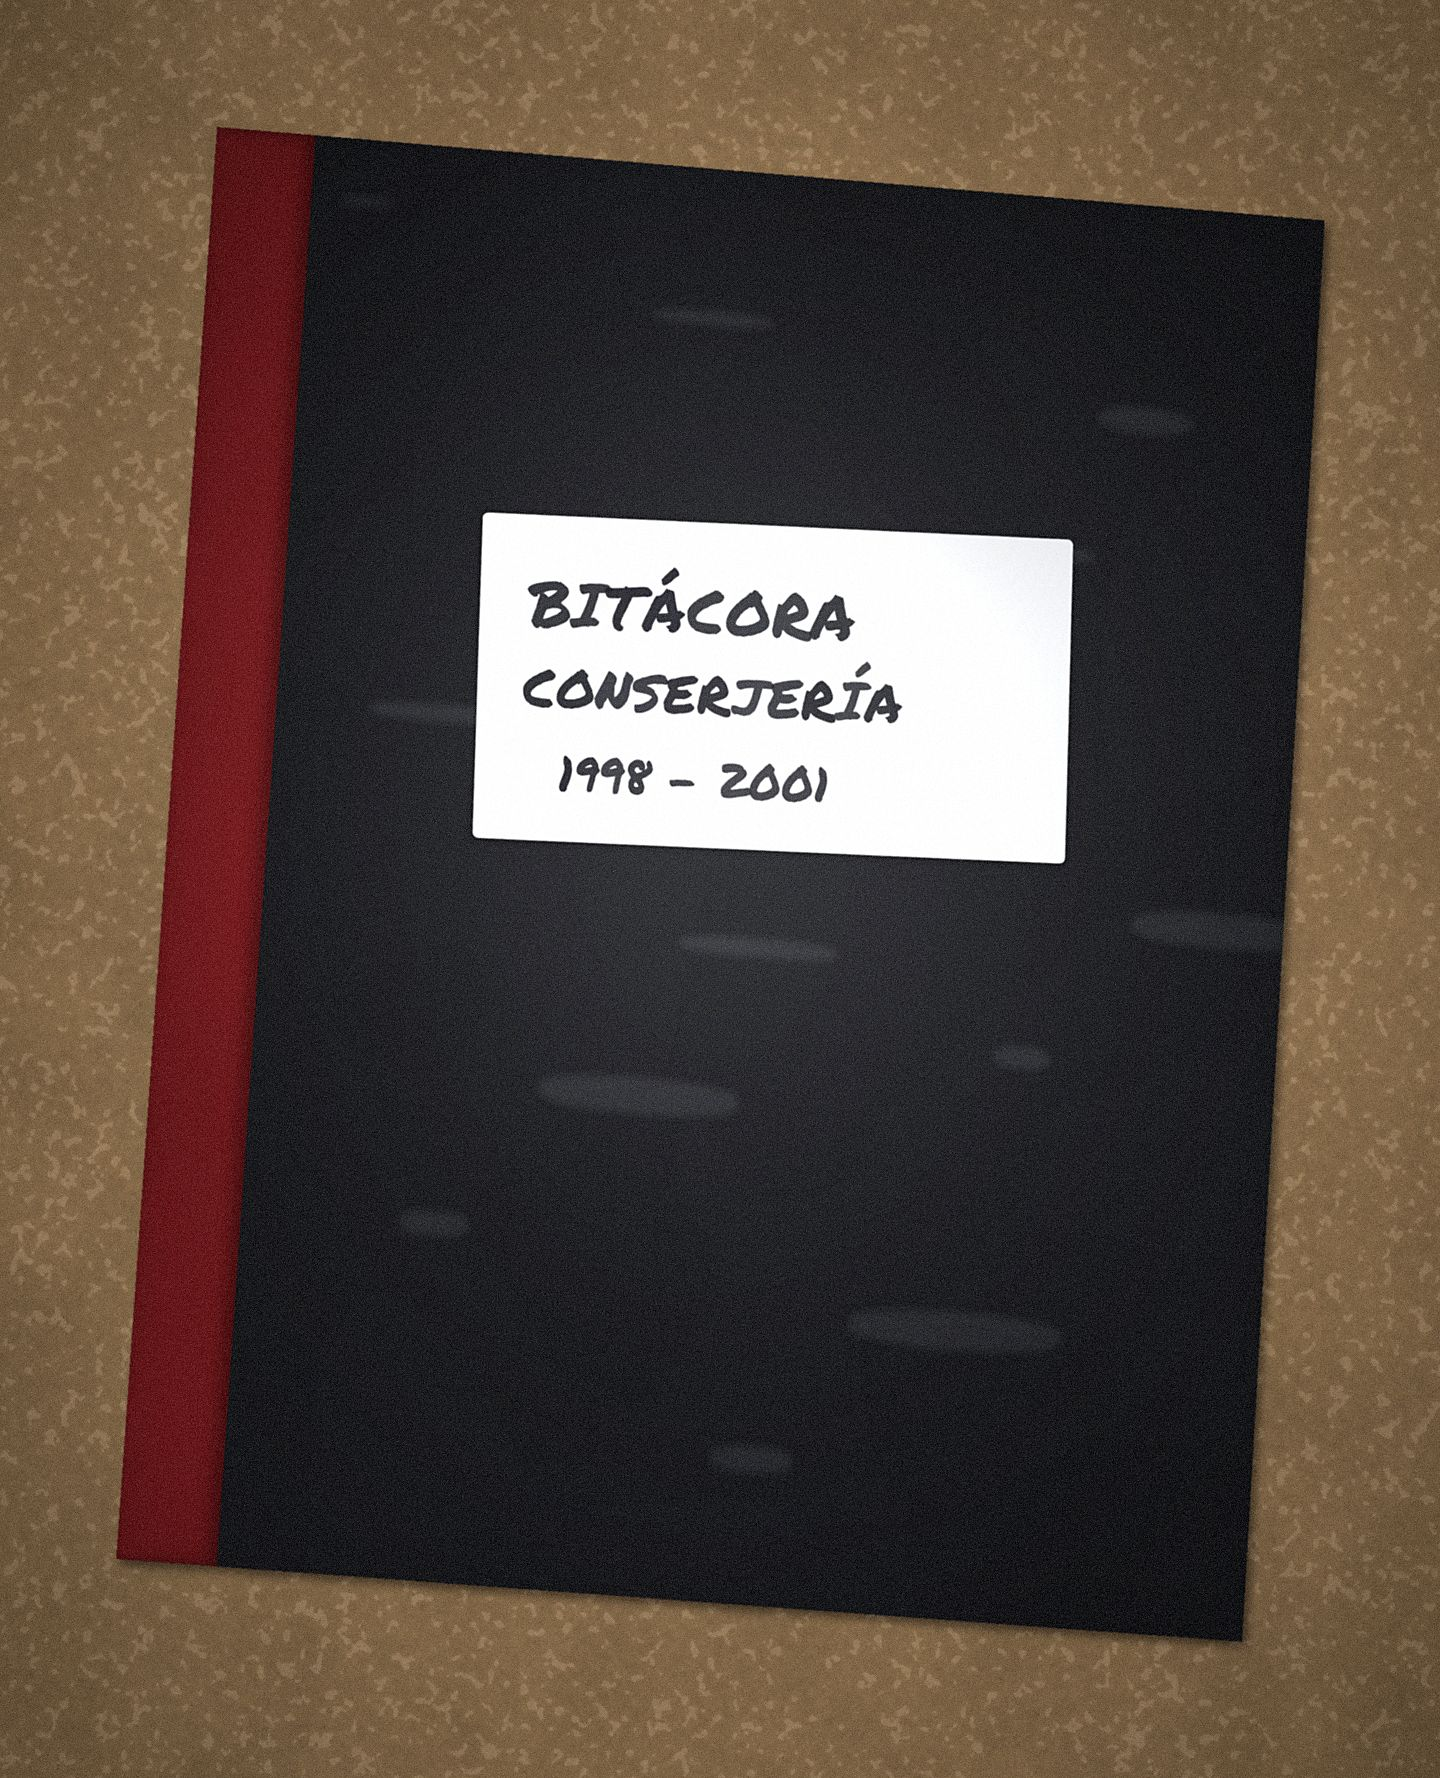
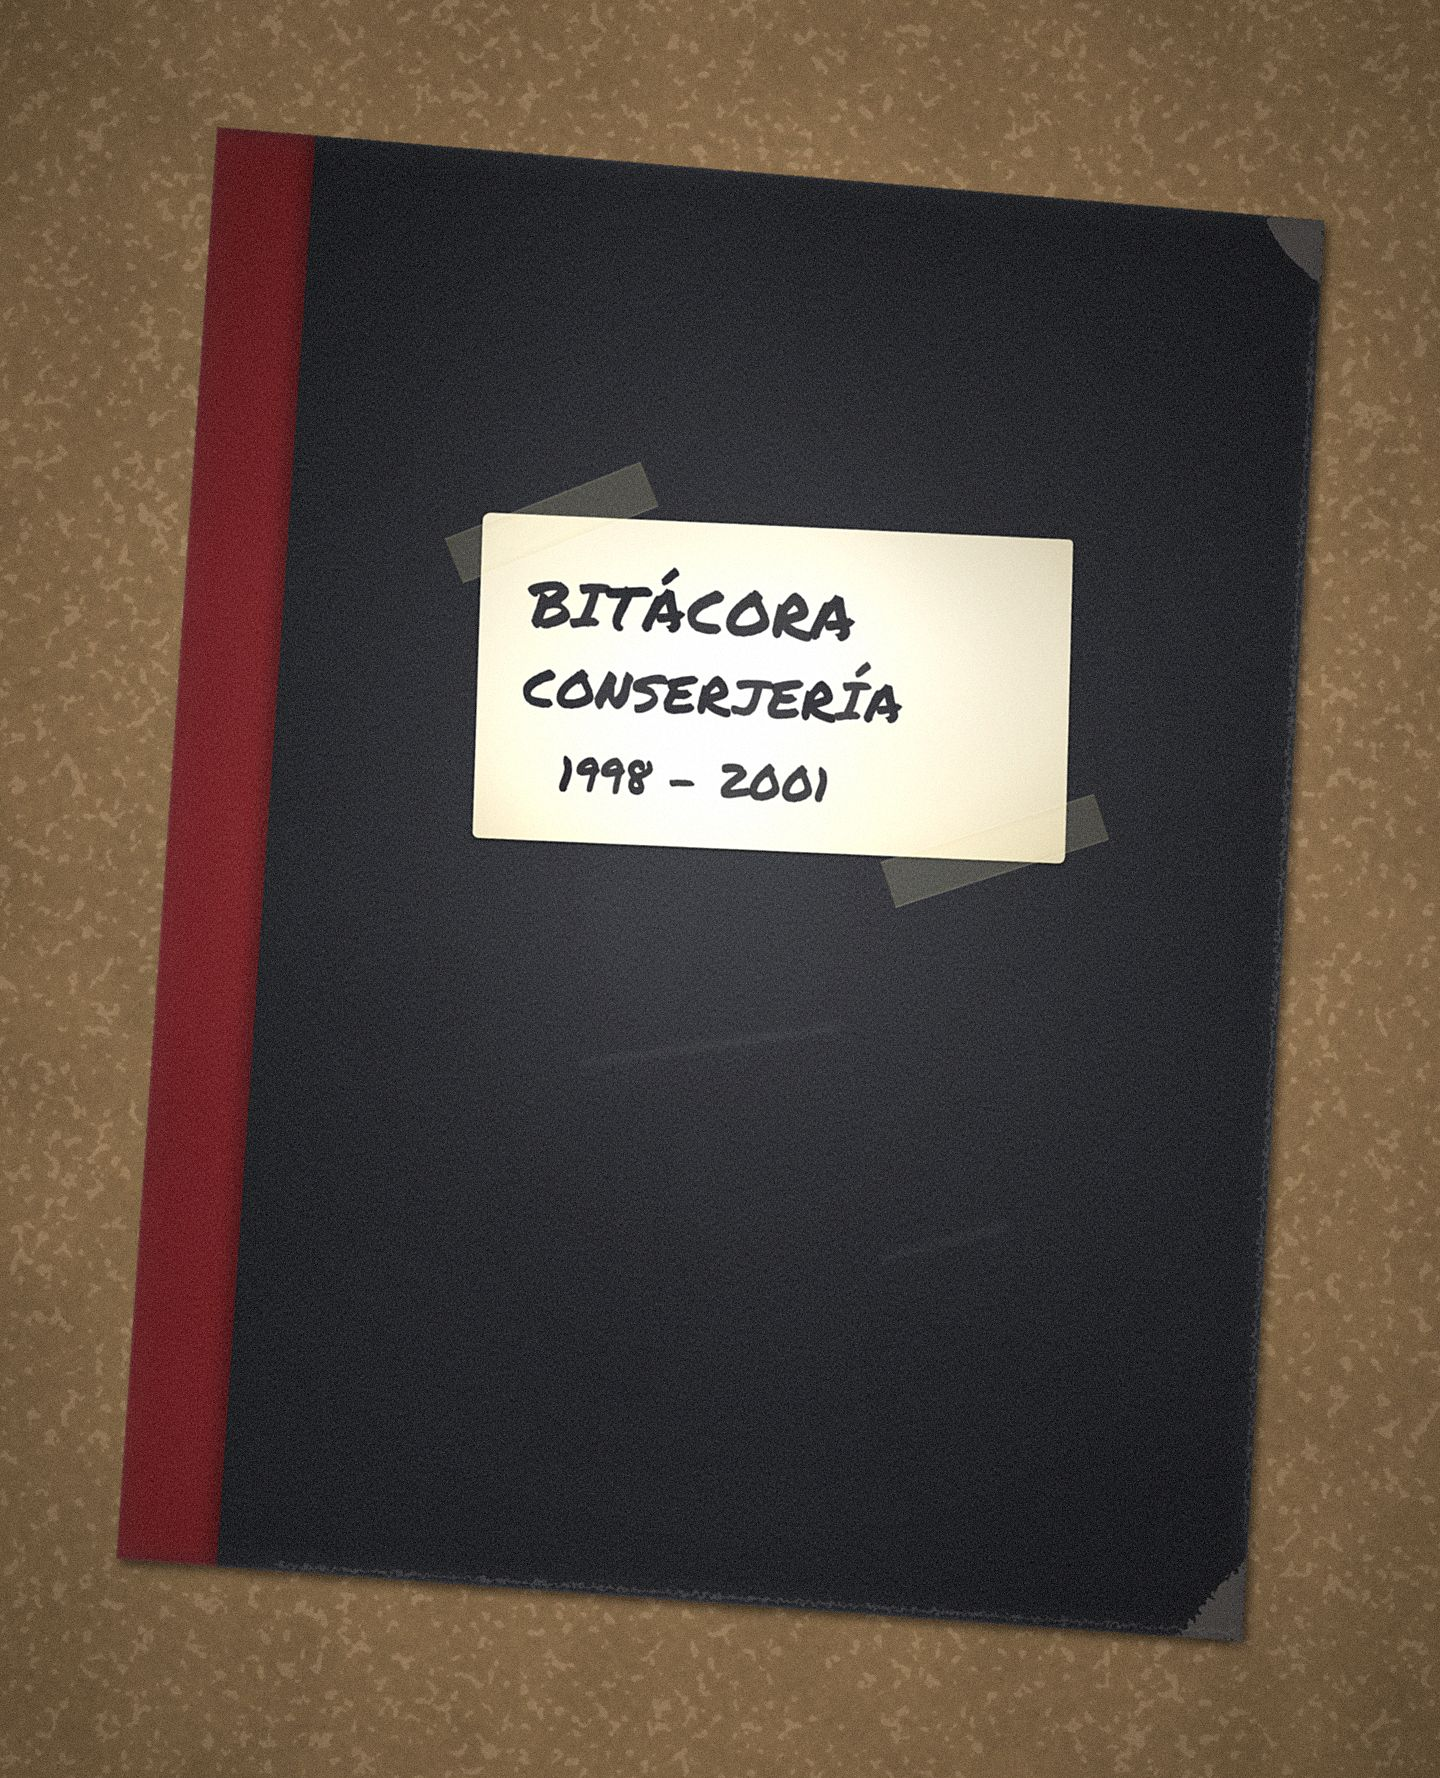
Retoques visuales: muro del pintarrón y portada de la bitácora; incidencias y notas de QA
Claude-Session: https://claude.ai/code/session_01J1QSbEcAcZzRcGmg1HpKCg

diff --git a/MAESTRO_PRIVADO/produccion/fuentes_html/bitacora.html b/MAESTRO_PRIVADO/produccion/fuentes_html/bitacora.html
@@ -16,7 +16,8 @@
 .firma{font-family:'give-you-glory';font-size:26px}
 #hoja.portada{background:#1d1d1f}
 .lomo{position:absolute;left:0;top:0;bottom:0;width:70px;background:#7b1d1f;box-shadow:inset -6px 0 10px rgba(0,0,0,.35)}
-.etq{position:absolute;left:210px;top:250px;width:420px;height:230px;background:#f2efe6;transform:rotate(-2deg);border-radius:4px;box-shadow:0 1px 3px rgba(0,0,0,.5)}
+.etq{position:absolute;left:210px;top:250px;width:420px;height:230px;background:radial-gradient(ellipse at 45% 40%,#ece3cb 0%,#e4d7b6 70%,#d6c69e 100%);transform:rotate(-2deg);border-radius:6px 3px 5px 4px;box-shadow:0 1px 2px rgba(0,0,0,.6)}
+.etq .cinta{position:absolute;height:34px;background:rgba(235,222,170,.16);border-top:1px solid rgba(255,255,255,.10);border-bottom:1px solid rgba(255,255,255,.10);box-shadow:inset 0 0 5px rgba(150,120,40,.14)}
 .etq .w{font-family:'permanent-marker';color:#1a1a1e}
 .raspa{position:absolute;border-radius:40%;background:rgba(255,255,255,.07);filter:blur(3px)}
 </style></head>
@@ -47,11 +48,20 @@ let h = '';
 if (P === 'portada') {
   H.className = 'portada';
   h += '<div class="lomo"></div>';
-  for (let i = 0; i < 14; i++) h += `<div class="raspa" style="left:${90 + (i * 137) % 640}px;top:${40 + (i * 251) % 900}px;width:${40 + (i * 37) % 120}px;height:${8 + (i * 13) % 20}px"></div>`;
+  // textura de tela y desgaste de esquinas y cantos
+  h += `<svg style="position:absolute;inset:0" width="792" height="1008"><filter id="tela"><feTurbulence type="fractalNoise" baseFrequency="0.9 0.35" numOctaves="3" seed="12"/><feColorMatrix values="0 0 0 0 1  0 0 0 0 1  0 0 0 0 1  0 0 0 0.10 0"/></filter><rect width="792" height="1008" filter="url(#tela)"/></svg>`;
+  h += `<div style="position:absolute;inset:0;box-shadow:inset 0 0 26px rgba(255,255,255,.10), inset 0 0 3px rgba(255,255,255,.25)"></div>`;
+  // esquinas gastadas: la tela se fue y asoma el cartón gris
+  h += `<svg style="position:absolute;inset:0" width="792" height="1008"><filter id="fibra"><feTurbulence type="fractalNoise" baseFrequency="0.25" numOctaves="4" seed="4"/><feDisplacementMap in="SourceGraphic" scale="9"/></filter>`
+     + `<g filter="url(#fibra)" fill="#6f6860" opacity=".85"><path d="M792 0 L748 0 Q758 20 770 30 Q782 40 792 46 Z"/><path d="M792 1008 L792 950 Q776 968 766 982 Q756 996 744 1008 Z"/></g>`
+     + `<g filter="url(#fibra)" fill="none" stroke="#8a847c" stroke-width="2" opacity=".35"><path d="M110 1004 L790 1002"/><path d="M788 60 L789 930"/></g>`
+     // roces tenues
+     + `<g opacity=".035" stroke="#fff" stroke-width="6" filter="url(#fibra)" style="filter:blur(2px)"><path d="M300 640 l180 -40"/><path d="M520 760 l90 -30"/></g></svg>`;
   h += '<div class="etq">';
   h += `<div class="w hw" data-seed="1400" data-jit="0.8" style="left:34px;top:30px;font-size:44px"><span class="ln">BITÁCORA</span></div>`;
   h += `<div class="w hw" data-seed="1401" data-jit="0.8" style="left:34px;top:94px;font-size:38px"><span class="ln">CONSERJERÍA</span></div>`;
   h += `<div class="w hw" data-seed="1402" data-jit="0.8" style="left:60px;top:156px;font-size:34px"><span class="ln">1998 - 2001</span></div>`;
+  h += '<div class="cinta" style="left:-26px;top:-12px;width:150px;transform:rotate(-24deg)"></div><div class="cinta" style="right:-30px;bottom:-10px;width:160px;transform:rotate(-20deg)"></div>';
   h += '</div>';
 } else {
   H.className = 'pag';

diff --git a/MAESTRO_PRIVADO/produccion/fuentes_html/pintarron.html b/MAESTRO_PRIVADO/produccion/fuentes_html/pintarron.html
@@ -44,6 +44,13 @@
  </div>
  <div class="contacto"></div>
  <div class="foco"></div>
+ <div style="position:absolute;left:0;right:0;top:120px;height:18px;background:linear-gradient(#f4f3ee,#dcdad2);box-shadow:0 2px 3px rgba(0,0,0,.12)"></div>
+ <div style="position:absolute;left:58px;top:1000px;width:18px;height:300px;background:linear-gradient(90deg,#f1efe8,#d9d6cc);box-shadow:1px 0 2px rgba(0,0,0,.15)"></div>
+ <div style="position:absolute;left:1790px;top:640px;width:60px;height:18px;background:rgba(236,226,196,.7);transform:rotate(8deg)"></div>
+ <div style="position:absolute;left:1860px;top:700px;width:44px;height:14px;background:rgba(236,226,196,.6);transform:rotate(-5deg)"></div>
+ <div style="position:absolute;left:1830px;top:230px;width:9px;height:9px;border-radius:50%;background:#c3262e;box-shadow:0 1px 1px rgba(0,0,0,.4)"></div>
+ <div style="position:absolute;left:130px;top:1060px;width:420px;height:120px;border-radius:50%;background:rgba(80,90,70,.10);filter:blur(18px)"></div>
+ <div style="position:absolute;left:1300px;top:1150px;width:520px;height:90px;border-radius:50%;background:rgba(60,70,60,.12);filter:blur(22px)"></div>
 </div>
 <script>
 const P = document.getElementById('pint');

diff --git a/QA/pruebas_funcionales.md b/QA/pruebas_funcionales.md
@@ -14,7 +14,7 @@ bash MAESTRO_PRIVADO/produccion/qa_todo.sh
 | 4 | Texto libre (D2 q4) | «Le decían Lupita» | Aceptada |
 | 5 | Mesa de ordenar (E08) | `qa_ordenar.js`: revisar sin mover, reordenar con los botones ↑ y abrir la ampliación | Al inicio, «0 de 8 en su lugar»; al final, mensaje de éxito; la ampliación abre |
 | 6 | Superponer calca (E06) | `qa_superponer.js`: elegir la carta #20, activar espejo, arrastrar la capa hasta la posición correcta y acercar | Alinea letra por letra (capturas `QA/capturas/E06_*_superponer*.png`) en móvil y escritorio |
-| 7 | Audio (E03) | `qa_audio.js`: metadatos, `canPlayType('audio/mpeg')` y reproducción | 87,7 s, «probably», avanza el tiempo |
+| 7 | Audio (E03) | `qa_audio.js`: metadatos, `canPlayType('audio/mpeg')` y reproducción | 87,7 s, «probably», avanza el tiempo. El registro muestra un `ERR_ABORTED` de la primera petición del MP3: con `preload="metadata"` Chromium la corta tras leer la cabecera y vuelve a pedir el archivo al reproducir; no afecta la reproducción |
 | 8 | Espejo y realce (E01) | `test_ui.js`: reverso → espejo → realce ×2 → acercar ×2 | Funciona; la calca se lee (`QA/capturas/E01_movil_reverso_espejo.png`) |
 | 9 | Comparar (E02) | `test_ui.js` | Pantalla dividida con selector en cada lado |
 | 10 | Vista local de punta a punta | `test_vista.js`: muestra → D1 → simular compra → etapa 1 → D2 → etapa 2 → D3 → epílogo | Piezas abiertas: 5 → 5 (sin compra) → 10 → 16 → 17. Sin errores |

diff --git a/QA/incidencias_resueltas.md b/QA/incidencias_resueltas.md
@@ -32,3 +32,7 @@
 | 28 | Vista local | Mostraba «Lupe» (título de la etapa 2) antes de descubrirlo | Revisión de filtraciones | Etapas bloqueadas con nombres neutros |
 | 29 | Paquete gratis | Copia de foto de WhatsApp sin uso en E02 | Revisión del paquete | Movida a los renders privados |
 | 30 | Pruebas | El test interpretaba mal selectores con «=» | Error del test | Separación por el primer «=» |
+| 31 | E02 | Muro del pintarrón liso, como de render | Mirar la foto | Canaleta, restos de cinta, chincheta y manchas de uso (sigue provisional, P1) |
+| 32 | E09 | Portada de la bitácora demasiado limpia: etiqueta blanca nueva y manchas redondas en las esquinas | Mirar la foto | Etiqueta amarillenta con cinta, tela con textura y esquinas gastadas que dejan ver el cartón |
+| 33 | E12 | La respuesta de Mariana en Messenger (19:48) quedaba después de «ya le contesté» | Auditoría de horarios | 18:36 |
+| 34 | Ritmo | Los tiempos de E03, E04 y D1 del manifest no sumaban el rango de la muestra | Revisión cruzada ritmo ↔ manifest | Tiempos ajustados (muestra 9-12 min en ambos) |
